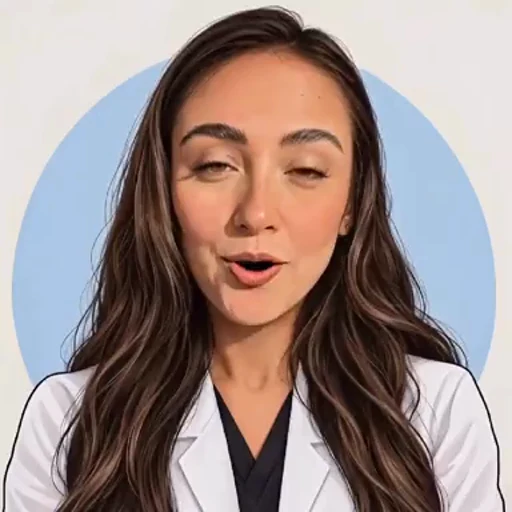
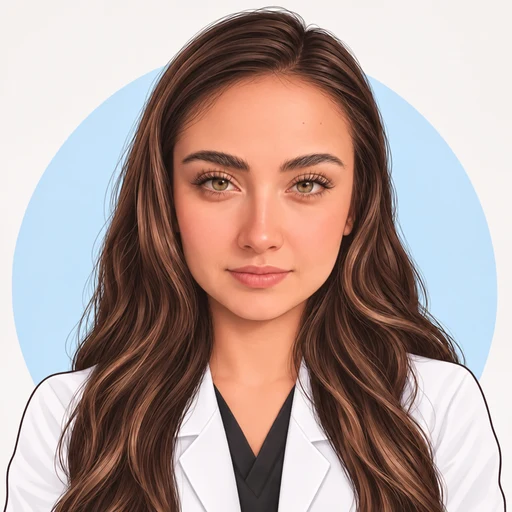
Andrea vuelve al lip-sync con fotos, mas natural
- Aperturas intermedias mezclando bocas vecinas; la boca muy abierta y la
  redonda casi no se usan (parecian grito y beso)
- Cuanto abre cada vocal depende de lo fuerte que suena la voz
- La cabeza se mece muy poco mientras habla
- Arreglado: los ojos se quedaban cerrados tras el primer parpadeo

diff --git a/src/cliente/lipsync-avatar.ts b/src/cliente/lipsync-avatar.ts
@@ -47,8 +47,66 @@ export const MAPA_RHUBARB: Record<string, string> = {
 /** La boca se adelanta un pelin al sonido, como en la animacion de verdad. */
 const ADELANTO_S = 0.03;
 
+/**
+ * Formas que se pintan de verdad. No hay una por imagen: la boca muy abierta
+ * (D) sola parece un grito y la redonda (E) un beso, asi que casi todo se
+ * resuelve con aperturas intermedias, mezclando dos imagenes vecinas. Cada
+ * forma dice que capas se ven y con cuanta opacidad.
+ */
+const FORMAS: Record<string, Record<string, number>> = {
+  X: {},
+  B: { B: 1 },
+  BC: { B: 1, C: 0.5 },
+  C: { C: 1 },
+  CD: { C: 1, D: 0.4 },
+  U: { E: 1 },
+  F: { F: 1 },
+};
+/** Cuanto abre cada forma (0 a 1): mueve un poco la cabeza al hablar. */
+const APERTURA: Record<string, number> = {
+  X: 0,
+  B: 0.25,
+  BC: 0.45,
+  C: 0.65,
+  CD: 1,
+  U: 0.3,
+  F: 0.2,
+};
+
+/**
+ * Que forma toca para un sonido. `codigo` es el de Rhubarb, `dura` lo que
+ * dura en segundos y `fuerza` lo fuerte que suena la voz en ese instante
+ * (0 a 1, relativo a su propio pico). Una misma vocal abre mas si se dice
+ * fuerte y larga que si pasa de corrido: asi la boca no repite siempre los
+ * mismos tres gestos.
+ */
+function elegirForma(codigo: string, dura: number, fuerza: number): string {
+  switch (codigo) {
+    case 'B': // consonantes
+      return 'B';
+    case 'H': // l
+      return 'BC';
+    case 'C': // e, i
+      return fuerza > 0.5 && dura >= 0.07 ? 'C' : 'BC';
+    case 'D': // a
+      if (fuerza > 0.62 && dura >= 0.09) return 'CD';
+      return fuerza > 0.3 ? 'C' : 'BC';
+    case 'E': // o: la imagen redonda es demasiado "beso" para una o
+      return fuerza > 0.45 ? 'C' : 'BC';
+    case 'F': // u
+      return dura >= 0.08 ? 'U' : 'B';
+    case 'G': // f
+      return 'F';
+    default: // X silencio, A labios cerrados (m, b, p)
+      return 'X';
+  }
+}
+
 export interface Pista {
   tiempos: Float64Array;
+  /** Codigo de Rhubarb de cada tramo, tal cual viene en el JSON. */
+  codigos: string[];
+  /** El mismo tramo traducido a imagen (MAPA_RHUBARB); 'X' = boca cerrada. */
   bocas: string[];
 }
 
@@ -64,6 +122,7 @@ export function cargarPista(url: string): Promise<Pista | null> {
         if (!json?.cues?.length) return null;
         return {
           tiempos: Float64Array.from(json.cues, (c) => c[0]),
+          codigos: json.cues.map((c) => c[1]),
           bocas: json.cues.map((c) => MAPA_RHUBARB[c[1]] ?? 'X'),
         };
       })
@@ -73,38 +132,43 @@ export function cargarPista(url: string): Promise<Pista | null> {
   return p;
 }
 
-/** Ultima forma cuyo inicio ya paso (busqueda binaria). */
-function bocaEn(pista: Pista, t: number): string {
+/** Indice del ultimo tramo cuyo inicio ya paso (busqueda binaria); -1 si ninguno. */
+function tramoEn(pista: Pista, t: number): number {
   const { tiempos } = pista;
   let lo = 0;
   let hi = tiempos.length - 1;
-  if (hi < 0 || t < tiempos[0]!) return 'X';
+  if (hi < 0 || t < tiempos[0]!) return -1;
   while (lo < hi) {
     const mitad = (lo + hi + 1) >> 1;
     if (tiempos[mitad]! <= t) lo = mitad;
     else hi = mitad - 1;
   }
-  return pista.bocas[lo]!;
+  return lo;
 }
 
 const menosMovimiento = () => window.matchMedia('(prefers-reduced-motion: reduce)').matches;
 
 export class LipSyncAvatar {
-  /** Por avatar, sus bocas por nombre (B, C, D...). X es no destapar ninguna. */
+  /** Por avatar, sus bocas por nombre (B, C, D...). */
   private readonly capas: Map<string, HTMLElement>[];
+  /** La cara entera de cada avatar (foto + bocas): se mece un poco al hablar. */
+  private readonly caras: HTMLElement[];
   /** Los ojos cerrados de cada avatar, si los tiene. */
   private readonly parpados: HTMLElement[];
   /** Cuando toca el siguiente parpadeo y hasta cuando dura el actual (ms). */
   private proximoParpadeo = 0;
   private finParpadeo = 0;
+  private ojosCerrados = false;
   private medio: HTMLMediaElement | null = null;
   private pista: Pista | null = null;
-  /** Volumen del audio, solo si no hay JSON. */
+  /** Volumen del audio en este instante, si el navegador deja escucharlo. */
   private nivel: (() => number) | null = null;
   private envolvente = 0;
   private pico = 0;
   private cuadro: number | null = null;
   private actual = 'X';
+  /** Apertura suavizada, para el cabeceo. */
+  private apertura = 0;
   /** Se suelta todo lo del audio anterior al conectar otro. */
   private soltar: AbortController | null = null;
   /** Para descartar un JSON que llega tarde, de un audio que ya no esta. */
@@ -117,6 +181,7 @@ export class LipSyncAvatar {
       for (const c of a.querySelectorAll<HTMLElement>('[data-visema]')) m.set(c.dataset.visema!, c);
       return m;
     });
+    this.caras = lista.flatMap((a) => Array.from(a.querySelectorAll<HTMLElement>('[data-cara]')));
     this.parpados = lista.flatMap((a) =>
       Array.from(a.querySelectorAll<HTMLElement>('[data-parpado]')),
     );
@@ -141,13 +206,20 @@ export class LipSyncAvatar {
 
     if (urlPista) {
       void cargarPista(urlPista).then((pista) => {
-        if (turno !== this.turno) return;
-        this.pista = pista;
-        if (!pista) this.prepararVolumen();
+        if (turno === this.turno) this.pista = pista;
       });
-    } else {
-      this.prepararVolumen();
     }
+    // El volumen se escucha siempre: con JSON decide cuanto abre cada vocal,
+    // y sin JSON es lo unico que mueve la boca. Web Audio solo arranca tras
+    // un gesto, asi que se engancha al primer play.
+    const enganchar = () => {
+      void escuchar(medio).then((nivel) => {
+        if (turno === this.turno) this.nivel = nivel;
+      });
+    };
+    if (!medio.paused) enganchar();
+    else medio.addEventListener('play', enganchar, { once: true, signal: this.soltar.signal });
+
     if (!medio.paused && !medio.ended) this.arrancar();
   }
 
@@ -160,31 +232,20 @@ export class LipSyncAvatar {
     this.parar();
   }
 
-  private prepararVolumen() {
-    const medio = this.medio;
-    if (!medio) return;
-    const turno = this.turno;
-    // Web Audio solo arranca tras un gesto: se engancha al primer play.
-    const enganchar = () => {
-      void escuchar(medio).then((nivel) => {
-        if (turno === this.turno) this.nivel = nivel;
-      });
-    };
-    if (!medio.paused) enganchar();
-    else medio.addEventListener('play', enganchar, { once: true, signal: this.soltar?.signal });
-  }
-
   private arrancar() {
     if (this.cuadro !== null || menosMovimiento()) return;
+    for (const c of this.caras) c.style.transition = 'none';
     const paso = () => {
       const medio = this.medio;
       if (!medio || medio.paused || medio.ended) {
         this.cuadro = null;
-        this.mostrar('X');
+        this.reposo();
         return;
       }
-      this.mostrar(this.bocaAhora(medio));
-      this.parpadear(performance.now());
+      const ahora = performance.now();
+      this.mostrar(this.formaAhora(medio));
+      this.parpadear(ahora);
+      this.mecer(ahora);
       this.cuadro = requestAnimationFrame(paso);
     };
     this.proximoParpadeo = performance.now() + 1200 + Math.random() * 2000;
@@ -194,10 +255,21 @@ export class LipSyncAvatar {
   private parar() {
     if (this.cuadro !== null) cancelAnimationFrame(this.cuadro);
     this.cuadro = null;
+    this.reposo();
+  }
+
+  /** Boca cerrada, ojos abiertos y la cabeza de vuelta a su sitio. */
+  private reposo() {
     this.envolvente = 0;
+    this.apertura = 0;
     this.mostrar('X');
     this.finParpadeo = 0;
+    this.ojosCerrados = false;
     for (const p of this.parpados) p.removeAttribute('data-activo');
+    for (const c of this.caras) {
+      c.style.transition = '';
+      c.style.transform = '';
+    }
   }
 
   /**
@@ -206,45 +278,83 @@ export class LipSyncAvatar {
    */
   private parpadear(ahora: number) {
     if (this.parpados.length === 0) return;
-    const cerrados = ahora < this.finParpadeo;
-    if (!cerrados && ahora >= this.proximoParpadeo) {
+    if (!this.ojosCerrados && ahora >= this.proximoParpadeo) {
       this.finParpadeo = ahora + 110 + Math.random() * 50;
       const doble = Math.random() < 0.15;
       this.proximoParpadeo = doble
         ? this.finParpadeo + 160
         : this.finParpadeo + 2500 + Math.random() * 3500;
     }
-    const ahoraCerrados = ahora < this.finParpadeo;
-    if (ahoraCerrados !== cerrados || ahoraCerrados) {
-      for (const p of this.parpados) p.toggleAttribute('data-activo', ahoraCerrados);
+    const cerrar = ahora < this.finParpadeo;
+    if (cerrar !== this.ojosCerrados) {
+      this.ojosCerrados = cerrar;
+      for (const p of this.parpados) p.toggleAttribute('data-activo', cerrar);
     }
+  }
+
+  /**
+   * Una cara que solo mueve la boca parece un recorte. Mientras habla, la
+   * cabeza se mece muy poco (un vaiven lento) y baja un pelo cuando la boca
+   * abre: nadie habla con la cabeza clavada.
+   */
+  private mecer(ahora: number) {
+    if (this.caras.length === 0) return;
+    this.apertura += ((APERTURA[this.actual] ?? 0) - this.apertura) * 0.12;
+    const s = ahora / 1000;
+    const x = Math.sin(s * 0.9) * 0.35 + Math.sin(s * 2.3 + 1) * 0.12;
+    const y = Math.sin(s * 1.3 + 2) * 0.25 + this.apertura * 0.9;
+    const giro = Math.sin(s * 0.7 + 0.5) * 0.45 + Math.sin(s * 1.9) * 0.15;
+    const t = `translate(${x.toFixed(3)}%, ${y.toFixed(3)}%) rotate(${giro.toFixed(3)}deg)`;
+    for (const c of this.caras) c.style.transform = t;
   }
 
   private pintarAhora() {
     const medio = this.medio;
     if (!medio || medio.paused || medio.ended || menosMovimiento()) this.mostrar('X');
-    else this.mostrar(this.bocaAhora(medio));
+    else this.mostrar(this.formaAhora(medio));
   }
 
-  private bocaAhora(medio: HTMLMediaElement): string {
-    if (this.pista) return bocaEn(this.pista, medio.currentTime + ADELANTO_S);
-    if (!this.nivel) return 'X';
-    // Sin JSON: apertura por volumen, con umbral relativo al pico de la voz
-    // (las grabaciones estan a volumenes muy distintos).
-    this.envolvente = Math.max(this.nivel(), this.envolvente * 0.82);
-    this.pico = Math.max(this.envolvente, this.pico * 0.999);
-    const r = this.pico > 0 ? this.envolvente / this.pico : 0;
-    if (this.envolvente < 0.002 || r < 0.06) return 'X';
-    if (r < 0.22) return 'B';
-    if (r < 0.5) return 'C';
-    return 'D';
+  /** Lo fuerte que suena la voz ahora, de 0 a 1 respecto de su propio pico. */
+  private fuerza(): number | null {
+    if (!this.nivel) return null;
+    this.envolvente = Math.max(this.nivel(), this.envolvente * 0.85);
+    this.pico = Math.max(this.envolvente, this.pico * 0.9995);
+    // Con el volumen casi a cero (o silenciado) no se oye nada que medir:
+    // mejor suponer una voz normal que dejar la boca a medio abrir.
+    if (this.pico < 0.004) return null;
+    if (this.envolvente < 0.002) return 0;
+    return Math.min(1, this.envolvente / this.pico);
   }
 
-  private mostrar(boca: string) {
-    if (boca === this.actual) return;
-    this.actual = boca;
+  private formaAhora(medio: HTMLMediaElement): string {
+    const fuerza = this.fuerza();
+    if (this.pista) {
+      const t = medio.currentTime + ADELANTO_S;
+      const i = tramoEn(this.pista, t);
+      if (i < 0) return 'X';
+      const fin = this.pista.tiempos[i + 1] ?? this.pista.tiempos[i]! + 0.2;
+      // Sin poder oir el audio se supone una voz normal.
+      return elegirForma(this.pista.codigos[i]!, fin - this.pista.tiempos[i]!, fuerza ?? 0.55);
+    }
+    // Sin JSON: apertura solo por volumen.
+    if (fuerza === null || fuerza < 0.06) return 'X';
+    if (fuerza < 0.25) return 'B';
+    if (fuerza < 0.5) return 'BC';
+    return fuerza < 0.8 ? 'C' : 'CD';
+  }
+
+  private mostrar(forma: string) {
+    if (forma === this.actual) return;
+    this.actual = forma;
+    const mezcla = FORMAS[forma] ?? {};
     for (const capas of this.capas) {
-      for (const [nombre, capa] of capas) capa.toggleAttribute('data-activo', nombre === boca);
+      for (const [nombre, capa] of capas) {
+        const opacidad = mezcla[nombre] ?? 0;
+        // La que sale espera un instante, ya tapada por la que entra: asi no
+        // asoma la boca cerrada de debajo a medio camino entre dos formas.
+        capa.style.transitionDelay = opacidad === 0 ? '45ms' : '0ms';
+        capa.style.opacity = String(opacidad);
+      }
     }
   }
 }
